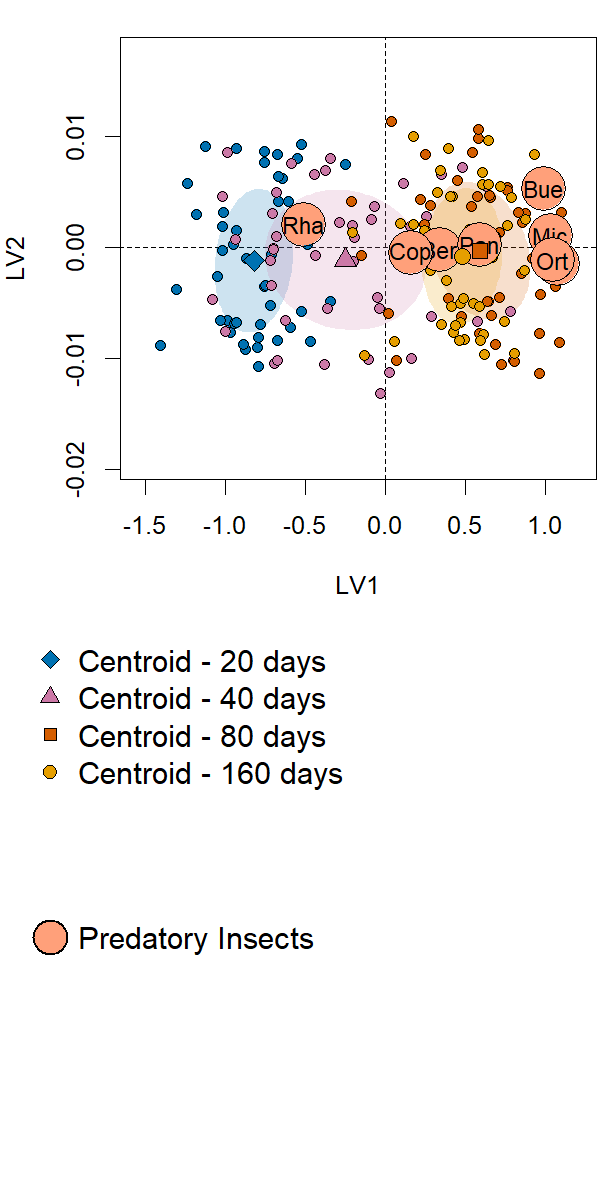
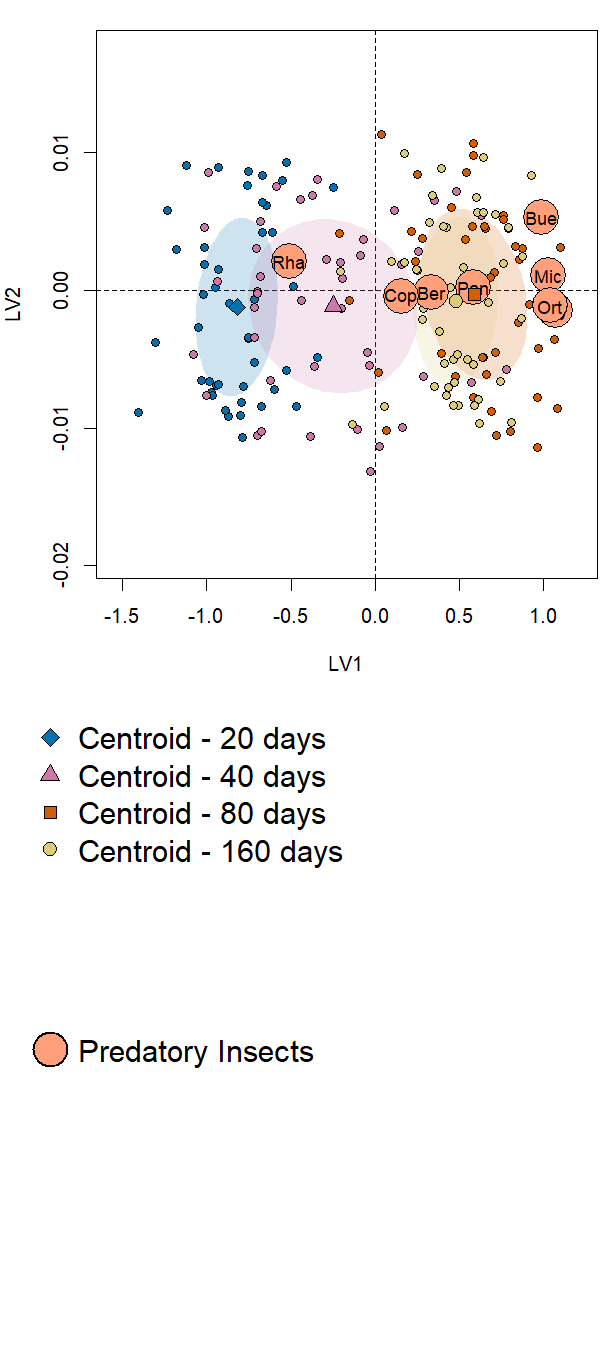
Small updates in colors

diff --git a/Community Structure/Community_Structure_Predatory_Insects.md b/Community Structure/Community_Structure_Predatory_Insects.md
@@ -229,7 +229,7 @@ col <- rep("lightsalmon1", ncol(sum_com_predators))
 col_survey_1 <- "#0072B2"
 col_survey_2 <- "#CC79A7"
 col_survey_3 <- "#D55E00"
-col_survey_4 <- "#E69F00"
+col_survey_4 <- "#DDCC77"
 
 
 fit_plot <- gllvm(as.data.frame(sum_com_predators), X = data.frame(ID = predictors$ID),
@@ -256,7 +256,7 @@ ymin <- min(c(scaled_lvs$sites[,2], scaled_lvs$new_species[,2]))*1.1 - 0.005
 ymax <- max(c(scaled_lvs$sites[,2], scaled_lvs$new_species[,2]))*1.1 + 0.005
 
 
-par(mar = c(4,4,1.25,.1),  mfrow = c(2,1))
+par(mar = c(4,4,1.25,.1),  mfrow = c(2,1), cex = 0.8)
 
   plot(NA,xlim = c(xmin, xmax), ylim = c(ymin, ymax), ylab = "LV2", xlab = "LV1", axes = F)
   axis(1 , gap.axis = -10)

diff --git a/Response to reviewers/Effects_of_excluding_really_rare_species.md b/Response to reviewers/Effects_of_excluding_really_rare_species.md
@@ -324,7 +324,7 @@ simple addition of one species that only has one occurrence added enough
 noise to make interactive effects of treatments disappear when we did a
 model selection based on AICc.
 
-Why did this happened? This is likely due to the fact that we have
+Why did this happen? This is likely due to the fact that we have
 relatively small communities, with about 10 or less species. In this
 case, the inclusion of one more species with little to no information
 regarding the effect of treatments on its abundance increased the AIC

diff --git a/Community Structure/Community_Structure_Herbivore_Detritivores.md b/Community Structure/Community_Structure_Herbivore_Detritivores.md
@@ -231,7 +231,7 @@ col[Trait$trait[Trait$trophic == "consumer"] == "insect_consumer" ] <- "cyan3"
 col_survey_1 <- "#0072B2"
 col_survey_2 <- "#CC79A7"
 col_survey_3 <- "#D55E00"
-col_survey_4 <- "#E69F00"
+col_survey_4 <- "#DDCC77"
 
 
 fit_plot <- gllvm(sum_com_herb_det, X = data.frame(ID = predictors$ID),

diff --git a/Abundance_Analyses/Abundance_Analyses_Amphibians.md b/Abundance_Analyses/Abundance_Analyses_Amphibians.md
@@ -226,7 +226,7 @@ Ploting it:
 col_survey_1 <- "#0072B2"
 col_survey_2 <- "#CC79A7"
 col_survey_3 <- "#D55E00"
-col_survey_4 <- "#E69F00"
+col_survey_4 <- "#DDCC77"
 
 par(mar = c(3.5, 4, 0.1, 0.1)+ 0.1, cex = 0.7, bty = "l")
 boxplot(com_amphibian_ab ~ SS, outline = F,

diff --git a/Abundance_Analyses/Abundance_Analyses_Predators.md b/Abundance_Analyses/Abundance_Analyses_Predators.md
@@ -225,7 +225,7 @@ Ploting it:
 col_survey_1 <- "#0072B2"
 col_survey_2 <- "#CC79A7"
 col_survey_3 <- "#D55E00"
-col_survey_4 <- "#E69F00"
+col_survey_4 <- "#DDCC77"
 
 par(mar = c(3.5, 4, 0.1, 0.1)+ 0.1, cex = 0.7, bty = "l")
 boxplot(com_predators_ab ~ SS, outline = F,

diff --git a/Abundance_Analyses/Abundance_Analyses_Herb_Det_Insects.md b/Abundance_Analyses/Abundance_Analyses_Herb_Det_Insects.md
@@ -225,7 +225,7 @@ Ploting it:
 col_survey_1 <- "#0072B2"
 col_survey_2 <- "#CC79A7"
 col_survey_3 <- "#D55E00"
-col_survey_4 <- "#E69F00"
+col_survey_4 <- "#DDCC77"
 
 par(mar = c(3.5, 4, 0.1, 0.1)+ 0.1, cex = 0.7, bty = "l")
 boxplot(com_herb_det_ab ~ SS, outline = F,
